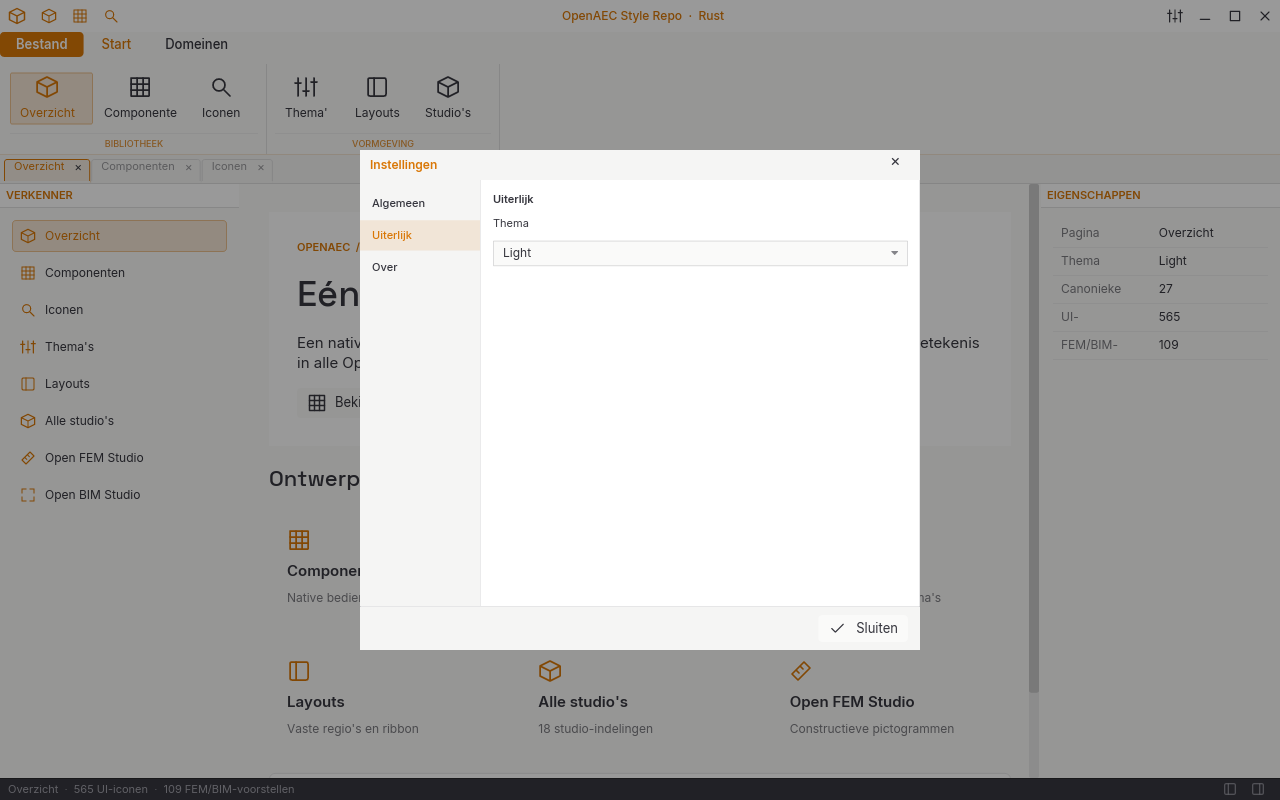
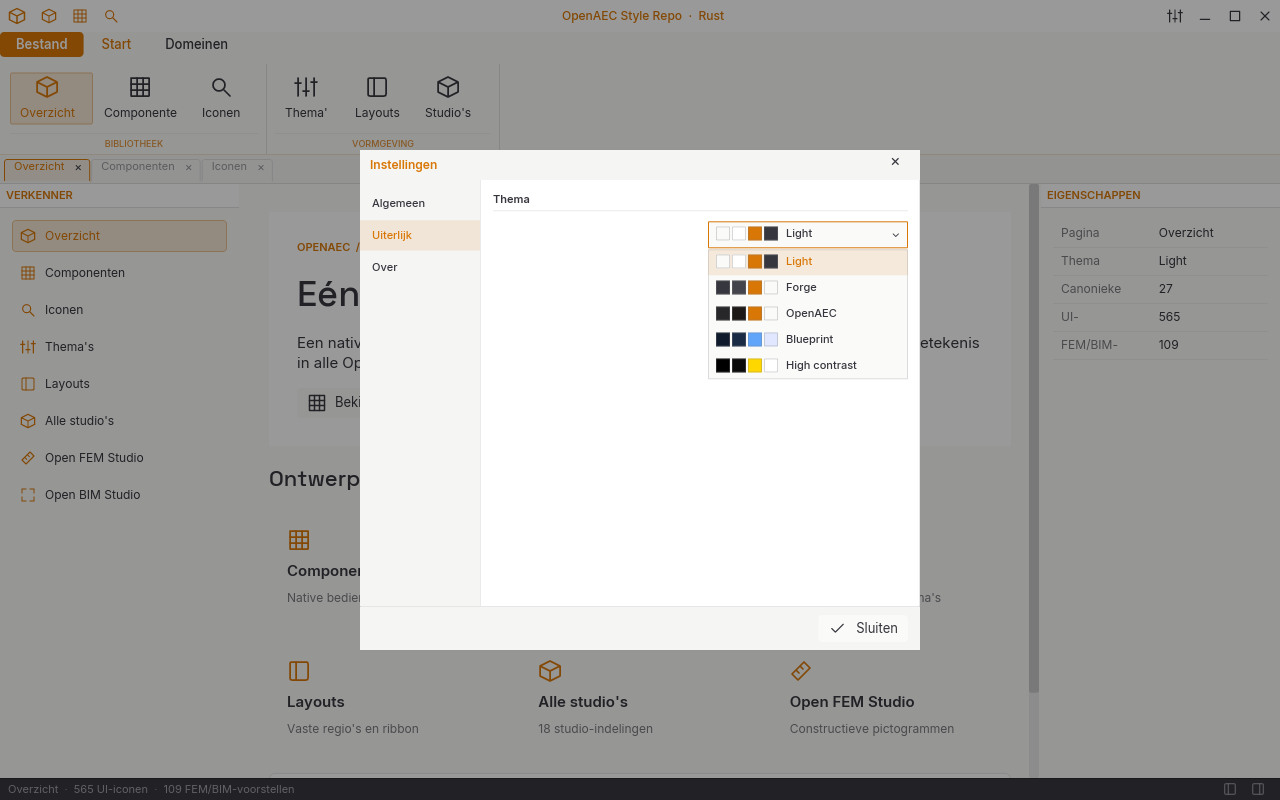
Share Tauri-sized theme picker across Rust apps

Changed region(s): [[0.5312, 0.2812, 0.7188, 0.4688], [0.375, 0.3125, 0.4062, 0.3438], [0.375, 0.25, 0.4062, 0.2812]]

diff --git a/design/settings-modal-review.html b/design/settings-modal-review.html
@@ -42,7 +42,7 @@
     <figure><h2>Style Repo · Forge</h2><a href="style-repo-settings-forge.png"><img loading="lazy" src="style-repo-settings-forge.png" alt="Style Repo instellingen in Forge"></a><figcaption>Dezelfde crate-geometrie en Forge-tokens.</figcaption></figure>
     <figure><h2>Pointcloud · Forge</h2><a href="pointcloud-settings-forge.png"><img loading="lazy" src="pointcloud-settings-forge.png" alt="Pointcloud instellingen in Forge"></a><figcaption>Dezelfde crate-geometrie en Forge-tokens.</figcaption></figure>
   </div>
-  <div class="assessment"><section><h3>Nu gelijk</h3><p>Positie en buitenmaat van de modal, 120 px navigatiestrook, rechte 11 px-tabs, header, footer, grenslijnen, backdropkleur en thematokens komen uit de crate. Beide apps hebben selecteerbare Algemeen-, Uiterlijk- en Over-pagina’s en behouden hun eigen instellingsgedrag.</p></section><section><h3>Nog beoordelen</h3><p>De gepinde templatecode bevat drie tabbladen; zijn bewaarde screenshot toont nog zeven oudere categorieën. De bron heeft een eigen open themadropdown. Style Repo heeft een compacte keuzelijst; Pointcloud toont vijf themarijen en CAD-viewerinstellingen. De binneninhoud is daardoor nog niet pixelidentiek.</p></section></div>
+  <div class="assessment"><section><h3>Nu gelijk</h3><p>Modal, zijbalk, rechte tabs, sectiekop en themakiezer komen uit dezelfde crate. De 200 px keuzeknop opent vijf rijen met de vier 14 px bronkleuren; in beide apps selecteert een rij het thema en sluit het menu. De renders tonen die geopende staat.</p></section><section><h3>Nog beoordelen</h3><p>De gepinde templatecode bevat drie tabs en vijf thema’s; de bewaarde screenshot toont nog zeven oudere categorieën en twee thema’s. Het Rust-menu staat nu in de inhoudsstroom, terwijl de Tauri-lijst over de inhoud zweeft. Style Repo past wijzigingen meteen toe; Pointcloud biedt preview, annuleren en opslaan. De overige instellingsvelden blijven productspecifiek.</p></section></div>
   <p style="margin-top:20px;color:#62626b;font-size:12px">Bronregels: <a href="https://github.com/OpenAEC-Foundation/OpenAEC-style-book/blob/dfdcd415b26604081b1699560621d3e9ae7ea6bf/project-templates/Tauri%2BReact/src/components/settings/SettingsDialog.tsx">SettingsDialog.tsx</a>, <a href="https://github.com/OpenAEC-Foundation/OpenAEC-style-book/blob/dfdcd415b26604081b1699560621d3e9ae7ea6bf/project-templates/Tauri%2BReact/src/components/settings/SettingsDialog.css">SettingsDialog.css</a> en <a href="https://github.com/OpenAEC-Foundation/OpenAEC-style-book/blob/dfdcd415b26604081b1699560621d3e9ae7ea6bf/project-templates/Tauri%2BReact/src/components/Modal.css">Modal.css</a>.</p>
 </main>
 </html>

diff --git a/crates/openaec-ui/src/widgets.rs b/crates/openaec-ui/src/widgets.rs
@@ -1088,6 +1088,118 @@ pub fn settings_tab<'a, M: Clone + 'a>(
         })
         .into()
 }
+/// One source-sized option in the settings theme menu. The caller owns the
+/// selection and supplies its localized label and action.
+pub fn settings_theme_option<'a, M: Clone + 'a>(
+    label: impl Into<String>,
+    option: Theme,
+    selected: bool,
+    on_press: M,
+    current_theme: Theme,
+) -> Element<'a, M> {
+    let t = current_theme.tokens();
+    let swatches = option.swatches().into_iter().fold(row![].spacing(2), |row, color| {
+        row.push(container(Space::new(14, 14)).style(move |_| container::Style {
+            background: Some(color.into()),
+            border: Border { color: iced::Color::from_rgba8(128, 128, 128, 0.3), width: 1.0, radius: 0.0.into() },
+            ..container::Style::default()
+        }))
+    });
+    button(row![swatches, text(label.into()).size(11).font(fonts::MEDIUM)]
+        .spacing(8).align_y(Alignment::Center))
+        .on_press(on_press)
+        .height(26)
+        .width(Fill)
+        .padding([5, 8])
+        .style(move |_, status| {
+            let hovered = matches!(status, button::Status::Hovered);
+            button::Style {
+                background: if selected { Some(t.dialog_tab_active_bg.into()) }
+                    else if hovered { Some(t.dialog_tab_hover.into()) } else { None },
+                text_color: if selected { t.dialog_tab_active_text } else { t.dialog_content_text },
+                ..button::Style::default()
+            }
+        })
+        .into()
+}
+/// Expanded 200 px theme menu shown in the pinned Style Book reference.
+pub fn settings_theme_menu<'a, M: Clone + 'a>(
+    options: impl IntoIterator<Item = (Theme, String, M)>,
+    selected: Theme,
+    current_theme: Theme,
+) -> Element<'a, M> {
+    let t = current_theme.tokens();
+    let items = options.into_iter().fold(column![], |items, (theme, label, message)| {
+        items.push(settings_theme_option(label, theme, theme == selected, message, current_theme))
+    });
+    container(items)
+        .width(200)
+        .style(move |_| container::Style {
+            background: Some(t.dialog_input_bg.into()),
+            border: Border { color: t.dialog_input_border, width: 1.0, radius: 0.0.into() },
+            ..container::Style::default()
+        })
+        .into()
+}
+/// Tauri-style theme selector: 200 px trigger and an expandable swatch menu.
+pub fn settings_theme_picker<'a, M: Clone + 'a>(
+    options: Vec<(Theme, String, M)>,
+    selected: Theme,
+    current_theme: Theme,
+    open: bool,
+    on_toggle: M,
+) -> Element<'a, M> {
+    let t = current_theme.tokens();
+    let label = options.iter().find(|(theme, _, _)| *theme == selected)
+        .map(|(_, label, _)| label.clone()).unwrap_or_else(|| selected.to_string());
+    let swatches = selected.swatches().into_iter().fold(row![].spacing(2), |row, color| {
+        row.push(container(Space::new(14, 14)).style(move |_| container::Style {
+            background: Some(color.into()),
+            border: Border { color: iced::Color::from_rgba8(128, 128, 128, 0.3), width: 1.0, radius: 0.0.into() },
+            ..container::Style::default()
+        }))
+    });
+    let trigger = button(row![
+        swatches,
+        text(label).size(11).font(fonts::MEDIUM),
+        Space::with_width(Fill),
+        text("⌄").size(11).color(t.dialog_content_text),
+    ].spacing(8).align_y(Alignment::Center))
+        .on_press(on_toggle)
+        .width(200)
+        .height(27)
+        .padding([5, 8])
+        .style(move |_, status| button::Style {
+            background: Some(t.dialog_input_bg.into()),
+            text_color: t.dialog_content_text,
+            border: Border {
+                color: if open { t.focus_color } else if matches!(status, button::Status::Hovered) { t.dialog_content_secondary } else { t.dialog_input_border },
+                width: 1.0,
+                radius: 0.0.into(),
+            },
+            ..button::Style::default()
+        });
+    let mut picker = column![trigger].spacing(1).width(200);
+    if open { picker = picker.push(settings_theme_menu(options, selected, current_theme)); }
+    picker.into()
+}
+/// Section title and underline from SettingsDialog.css.
+pub fn settings_section_heading<'a, M: 'a>(
+    label: impl Into<String>,
+    theme: Theme,
+) -> Element<'a, M> {
+    let t = theme.tokens();
+    column![
+        text(label.into()).font(fonts::STRONG).size(11).color(t.dialog_content_text),
+        container(Space::new(Fill, 1))
+            .height(1)
+            .width(Fill)
+            .style(move |_| container::Style::default().background(t.dialog_section_border)),
+    ]
+    .spacing(4)
+    .width(Fill)
+    .into()
+}
 pub fn icon_button<'a, M: Clone + 'a>(
     label: &'a str,
     icon: Icon,

diff --git a/crates/openaec-ui/src/model.rs b/crates/openaec-ui/src/model.rs
@@ -134,7 +134,7 @@ pub enum DocumentEvent { Activate(String), CloseRequested(String) }
 pub enum Message<M> { Ui(UiEvent), Command(M), Document(DocumentEvent) }
 #[derive(Debug, Clone)]
 pub enum UiEvent {
-    Tab(String), Backstage(bool), Settings(bool), SettingsPage(SettingsPage), Theme(Theme), Language(Language),
+    Tab(String), Backstage(bool), Settings(bool), SettingsPage(SettingsPage), SettingsThemeMenu(bool), Theme(Theme), Language(Language),
     Scale(f64), ToggleLeft, ToggleRight, Resize(pane_grid::ResizeEvent),
     DragWindow, Minimize, Maximize, CloseWindow,
 }
@@ -196,6 +196,7 @@ pub struct ShellState {
     pub backstage: bool,
     pub settings: bool,
     pub settings_page: SettingsPage,
+    pub settings_theme_open: bool,
     pub(crate) panes: pane_grid::State<Region>,
     left_split: Option<pane_grid::Split>,
     right_split: Option<pane_grid::Split>,
@@ -205,7 +206,7 @@ impl ShellState {
     pub fn new(mut preferences: Preferences) -> Self {
         preferences.normalize();
         let (panes, _) = pane_grid::State::new(Region::Workspace);
-        let mut state = Self { preferences, active_tab: String::new(), backstage:false, settings:false, settings_page:SettingsPage::General, panes, left_split:None, right_split:None };
+        let mut state = Self { preferences, active_tab: String::new(), backstage:false, settings:false, settings_page:SettingsPage::General, settings_theme_open:false, panes, left_split:None, right_split:None };
         state.rebuild(); state
     }
     fn rebuild(&mut self) {
@@ -225,10 +226,11 @@ impl ShellState {
     pub fn update(&mut self, event: &UiEvent) {
         match event {
             UiEvent::Tab(id) => { self.active_tab = id.clone(); self.backstage = false; }
-            UiEvent::Backstage(open) => { self.backstage = *open; self.settings = false; }
-            UiEvent::Settings(open) => { self.settings = *open; self.backstage = false; }
-            UiEvent::SettingsPage(page) => self.settings_page = *page,
-            UiEvent::Theme(theme) => self.preferences.theme = *theme,
+            UiEvent::Backstage(open) => { self.backstage = *open; self.settings = false; self.settings_theme_open = false; }
+            UiEvent::Settings(open) => { self.settings = *open; self.backstage = false; self.settings_theme_open = false; }
+            UiEvent::SettingsPage(page) => { self.settings_page = *page; self.settings_theme_open = false; }
+            UiEvent::SettingsThemeMenu(open) => self.settings_theme_open = *open,
+            UiEvent::Theme(theme) => { self.preferences.theme = *theme; self.settings_theme_open = false; }
             UiEvent::Language(language) => self.preferences.language = *language,
             UiEvent::Scale(scale) => { self.preferences.scale = *scale; self.preferences.normalize(); }
             UiEvent::ToggleLeft => { self.preferences.explorer_visible = !self.preferences.explorer_visible; self.rebuild(); }
@@ -241,5 +243,25 @@ impl ShellState {
             }
             _ => {}
         }
+    }
+}
+
+#[cfg(test)]
+mod settings_tests {
+    use super::*;
+
+    #[test]
+    fn theme_choice_closes_its_menu_and_other_pages_do_not_leave_it_open() {
+        let mut shell = ShellState::default();
+        shell.update(&UiEvent::Settings(true));
+        shell.update(&UiEvent::SettingsPage(SettingsPage::Appearance));
+        shell.update(&UiEvent::SettingsThemeMenu(true));
+        assert!(shell.settings_theme_open);
+        shell.update(&UiEvent::Theme(Theme::Forge));
+        assert_eq!(shell.preferences.theme, Theme::Forge);
+        assert!(!shell.settings_theme_open);
+        shell.update(&UiEvent::SettingsThemeMenu(true));
+        shell.update(&UiEvent::SettingsPage(SettingsPage::About));
+        assert!(!shell.settings_theme_open);
     }
 }

diff --git a/crates/openaec-ui/src/shell.rs b/crates/openaec-ui/src/shell.rs
@@ -160,7 +160,7 @@ pub fn shell<'a, M: Clone + 'a>(state: &'a ShellState, slots: Slots<'a,M>) -> El
 }
 fn settings<'a,M:Clone+'a>(state:&'a ShellState) -> Element<'a,Message<M>> {
     let p=&state.preferences; let l=p.language;
-    let heading = |label| text(label).font(fonts::STRONG).size(11);
+    let heading = |label: &'static str| widgets::settings_section_heading(label,p.theme);
     let form: Element<'a, Message<M>> = match state.settings_page {
         SettingsPage::General => column![
             heading(l.text("Algemeen","General")),
@@ -173,11 +173,17 @@ fn settings<'a,M:Clone+'a>(state:&'a ShellState) -> Element<'a,Message<M>> {
                 .step(0.05).style(move |_,status|widgets::slider_style(p.theme,status)),
         ].spacing(10).into(),
         SettingsPage::Appearance => column![
-            heading(l.text("Uiterlijk","Appearance")),
-            text(l.text("Thema","Theme")).size(11),
-            pick_list(Theme::ALL,Some(p.theme),|theme|Message::Ui(UiEvent::Theme(theme)))
-                .style(move |_,status|widgets::pick_list_style(p.theme,status))
-                .menu_style(move |_|widgets::pick_list_menu_style(p.theme)).width(Fill),
+            heading(l.text("Thema","Theme")),
+            row![
+                Space::with_width(Fill),
+                widgets::settings_theme_picker(
+                    Theme::ALL.into_iter().map(|theme| (
+                        theme, theme.to_string(), Message::Ui(UiEvent::Theme(theme)),
+                    )).collect(),
+                    p.theme, p.theme, state.settings_theme_open,
+                    Message::Ui(UiEvent::SettingsThemeMenu(!state.settings_theme_open)),
+                ),
+            ],
         ].spacing(10).into(),
         SettingsPage::About => column![
             heading(l.text("Over","About")),

diff --git a/scripts/check_crate_package.py b/scripts/check_crate_package.py
@@ -3,6 +3,7 @@
 
 import shutil
 import subprocess
+import re
 from pathlib import Path
 
 root = Path(__file__).resolve().parents[1]
@@ -16,8 +17,10 @@ assert all(not name.startswith(("design/", "harmonization/", "src/bin/")) for na
 icons = {f"assets/icons/{p.name}" for p in (root / "crates/openaec-ui/assets/icons").glob("*.svg")}
 domain_icons = {f"assets/{group}/{p.name}" for group in ("domain-icons", "domain-icons-small") for p in (root / "crates/openaec-ui/assets" / group).glob("*.svg")}
 fonts = {f"assets/fonts/{p.name}" for p in (root / "crates/openaec-ui/assets/fonts").glob("*.ttf")}
-assert len(icons) == 26 and len(domain_icons) == 8 and len(fonts) == 6
+icon_source = (root / "crates/openaec-ui/src/icons.rs").read_text()
+core_count, domain_count = map(int, re.findall(r"pub const ALL: \[Self; (\d+)\]", icon_source))
+assert len(icons) == core_count and len(domain_icons) == 2 * domain_count and len(fonts) == 6
 assert icons <= files and domain_icons <= files and fonts <= files
 assert {f"licenses/{name}-OFL.txt" for name in ("Inter", "SpaceGrotesk", "JetBrainsMono")} <= files
 assert {"NOTICE.md", "LICENSE", "README.md", "src/lib.rs"} <= files
-print(f"Reusable crate package: {len(files)} files, 26 core icons, 8 domain SVGs, 6 fonts, 3 font notices, no research assets")
+print(f"Reusable crate package: {len(files)} files, {core_count} core icons, {len(domain_icons)} domain SVGs, 6 fonts, 3 font notices, no research assets")

diff --git a/crates/openaec-ui/src/theme.rs b/crates/openaec-ui/src/theme.rs
@@ -13,6 +13,17 @@ pub enum Theme {
 }
 impl Theme {
     pub const ALL: [Self; 5] = [Self::Light, Self::Forge, Self::OpenAec, Self::Blueprint, Self::Contrast];
+    /// Four swatches from the pinned Tauri SettingsDialog THEME_OPTIONS.
+    pub fn swatches(self) -> [iced::Color; 4] {
+        let hex = |value: u32| iced::Color::from_rgb8((value >> 16) as u8, (value >> 8) as u8, value as u8);
+        match self {
+            Self::Light => [hex(0xFAFAF9), hex(0xFFFFFF), hex(0xD97706), hex(0x36363E)],
+            Self::Forge => [hex(0x36363E), hex(0x44444C), hex(0xD97706), hex(0xFAFAF9)],
+            Self::OpenAec => [hex(0x27272A), hex(0x1C1917), hex(0xD97706), hex(0xFAFAF9)],
+            Self::Blueprint => [hex(0x0F1B2D), hex(0x1A2C45), hex(0x60A5FA), hex(0xE0E7FF)],
+            Self::Contrast => [hex(0x000000), hex(0x0A0A0A), hex(0xFFD700), hex(0xFFFFFF)],
+        }
+    }
     pub fn tokens(self) -> Tokens {
         match self { Self::Light => tokens::LIGHT, Self::Forge => tokens::FORGE, Self::OpenAec => tokens::OPENAEC, Self::Blueprint => tokens::BLUEPRINT, Self::Contrast => tokens::CONTRAST }
     }

diff --git a/src/bin/style_repo/render_tests.rs b/src/bin/style_repo/render_tests.rs
@@ -48,7 +48,10 @@ fn render_sized(
     preferences.theme = theme;
     let mut state = ShellState::new(preferences);
     state.settings = show_settings;
-    if show_settings { state.settings_page = openaec_ui::SettingsPage::Appearance; }
+    if show_settings {
+        state.settings_page = openaec_ui::SettingsPage::Appearance;
+        state.settings_theme_open = true;
+    }
     if let Some(tab) = active_tab {
         state.active_tab = tab.into();
     }

diff --git a/README.md b/README.md
@@ -10,7 +10,7 @@ cargo run --bin style_repo
 
 De map is een zelfstandige Git-repository op branch `main`, met lokale commits en een schone werkboom. In GitHub Desktop kan hij via **File → Add Local Repository** worden toegevoegd met pad `/home/aia04/Documenten/GitHub/OpenAEC-app-kopie`; daarna maakt **Publish repository** de eerste GitHub-remote aan. Er is nog geen remote ingesteld, dus een gewone Push-knop verschijnt pas na publiceren of koppelen aan een bestaande lege repository.
 
-De app laat componenten, vijf thema's, de gedeelde layout, 18 studio-indelingen met elk negen selecteerbare voorbeeldschermen, 565 onderzochte UI-iconbestanden en 109 getekende FEM/BIM-iconconcepten zien. De broniconen en domeinconcepten zijn bedoeld voor beoordeling; de 26 iconen in [`crates/openaec-ui/assets/icons/`](crates/openaec-ui/assets/icons/) vormen de huidige semantische kern van de crate. De gelijkgehouden kopie in `assets/icons/` bedient de HTML-review. Thema, taal, schaal en paneelinstellingen worden opgeslagen in de gebruikersconfiguratie.
+De app laat componenten, vijf thema's, de gedeelde layout, 18 studio-indelingen met elk negen selecteerbare voorbeeldschermen, 565 onderzochte UI-iconbestanden en 109 getekende FEM/BIM-iconconcepten zien. De broniconen en domeinconcepten zijn bedoeld voor beoordeling; de 27 iconen in [`crates/openaec-ui/assets/icons/`](crates/openaec-ui/assets/icons/) vormen de huidige semantische kern van de crate. De gelijkgehouden kopie in `assets/icons/` bedient de HTML-review. Thema, taal, schaal en paneelinstellingen worden opgeslagen in de gebruikersconfiguratie.
 
 ![Native Rust Style Repo](design/style-repo-native.png)
 
@@ -37,7 +37,7 @@ De [Pile Plan-ribbon in Forge](design/style-repo-pile-ribbon-forge.png) volgt Pl
 
 De Frame-ribbon toont [Sjabloon](design/style-repo-frame-ribbon-light.png), [IFC LOD](design/style-repo-frame-ifc-light.png) en [Thema](design/style-repo-frame-view-light.png) nu als gedeelde native keuzelijsten met de brongepinde opties en beginwaarden.
 
-De native iconenpagina toont de 26 canonieke Rust-iconen en vier afzonderlijke, beoordeelde CAD/Pointcloud-domeinbetekenissen met eigen 16 px-vormen, los van de 565 onderzoeksbronnen: [Light](design/style-repo-icons-light.png) en [Forge](design/style-repo-icons-forge.png).
+De native iconenpagina toont de 27 canonieke Rust-iconen en vier afzonderlijke, beoordeelde CAD/Pointcloud-domeinbetekenissen met eigen 16 px-vormen, los van de 565 onderzoeksbronnen: [Light](design/style-repo-icons-light.png) en [Forge](design/style-repo-icons-forge.png).
 De [componentenpagina in Light](design/style-repo-components-light.png) en [Forge](design/style-repo-components-forge.png) toont de gedeelde primaire, secundaire en uitgeschakelde knoppen, plus een werkende checkbox en slider. Pointcloud tekent ook zijn scrollbalken, tooltips en voortgangsbalken met de stijlfuncties uit dezelfde crate.
 De [instellingenreview](design/settings-modal-review.html) vergelijkt de gepinde Tauri-bron met Style Repo en Pointcloud in Light en Forge. De modal en de drie selecteerbare tabbladen komen uit dezelfde Rust-crate; de inhoud, themawaarde en opslag blijven van de betreffende app.
 
@@ -57,7 +57,7 @@ Alle 666 gevonden screenshotkandidaten zijn rechtstreeks uit hun vastgelegde Git
 De vijf vaste vensterbanden, 24 px-paneelwerkbalken en de standaardbreedte van beide zijpanelen zijn vastgelegd in [`design/layout-spec.json`](design/layout-spec.json) met een exacte Tauri-broncommit. `python3 scripts/check_layout_metrics.py` vergelijkt de Rust-crate en het HTML-prototype met die maten, en met de lokale Tauri-bron wanneer die naast deze repo staat.
 `python3 scripts/check_icon_adoptions.py` controleert de zes iconbesluiten en identieke SVG-inhoud in de lokale Pointcloud-integratie.
 `python3 scripts/check_portable_ui.py` vergelijkt de volledige portable crate met deze bron: Rust-code na formattering, alle 28 gebundelde fonts/iconen en de runtime-dependencies.
-`python3 scripts/check_crate_package.py` controleert de pakketgrens en `cargo package -p openaec-ui` bouwt de zelfstandige crate uit het verpakte archief. Het pakket bevat de 26 canonieke bedieningsiconen en vier beoordeelde domeinbetekenissen met aparte 16 px-vectoren, naast de Rust-bronnen, zes fonts en drie OFL-licentieteksten. De Style Repo-app staat als afzonderlijk, niet-publiceerbaar Cargo-package in dezelfde workspace. De 565 onderzoeksiconen, FEM/BIM-concepten en reviewbeelden gaan niet mee in het `openaec-ui`-pakket. Voor gebruik in een andere Git-checkout kan de crate via een Git-dependency of een lokale path-dependency worden toegevoegd; er is nog geen remote voor deze repository ingesteld.
+`python3 scripts/check_crate_package.py` controleert de pakketgrens en `cargo package -p openaec-ui` bouwt de zelfstandige crate uit het verpakte archief. Het pakket bevat de 27 canonieke bedieningsiconen en vier beoordeelde domeinbetekenissen met aparte 16 px-vectoren, naast de Rust-bronnen, zes fonts en drie OFL-licentieteksten. De Style Repo-app staat als afzonderlijk, niet-publiceerbaar Cargo-package in dezelfde workspace. De 565 onderzoeksiconen, FEM/BIM-concepten en reviewbeelden gaan niet mee in het `openaec-ui`-pakket. Voor gebruik in een andere Git-checkout kan de crate via een Git-dependency of een lokale path-dependency worden toegevoegd; er is nog geen remote voor deze repository ingesteld.
 
 De eerste productintegratie staat in de lokale `open-pointcloud-studio`-checkout op branch `feat/shared-rust-ui`. Daar draait een portable snapshot van deze crate als `native/ui`; de Pointcloud-titelbalk, [tien algemene toolacties, twee domeinacties en de Extensions-bestandspagina](design/icon-adoptions.json) gebruiken de gedeelde iconen, naast de gebundelde lettertypen, knoppen, invoervelden, keuzelijsten, checkboxen, sliders, voortgangsbalken, scrollbalken, tooltips en 77 gedeelde Tauri-kleurvelden per thema. De stevige randkleur voor sliders en voortgangsbalken komt aanvullend uit de vastgelegde Style Book-merktokens. De [Extensions-iconreview](design/extensions-icon-review.html) onderbouwt waarom die pagina een puzzelstuk krijgt in plaats van een 3D-kubus. De vier beoordeelde navigatie-iconen staan in de [Light/Forge-review](design/navigation-icon-review.html); de nieuwe 3D BAG- en EDL-vormen staan op 16, 24 en 32 px in de [botsingsreview](design/icon-collision-review.html). De overige domeinribbon en panelen worden na de visuele en semantische beoordeling verder overgezet.
 

diff --git a/design/assessment.md b/design/assessment.md
@@ -147,7 +147,7 @@ compacte knopstapels en een eigen taak/Gantt-werkgebied gebruikt.
 | Semantiek van iconen | De 27 huidige canonieke bedieningstekens zijn een begin; 565 bronbestanden zijn onderzoeksdata. | Groepeer synoniemen, beoordeel tegen light/dark en teken de definitieve domeinsets. |
 | FEM en BIM | 52 FEM- en 57 BIM-betekenissen hebben elk een uniek SVG-concept; de atlas toont ze op 16, 24 en 32 px in lichte en donkere omgeving. | Complexe vormen op 16 px verfijnen en de 24 mogelijke bronmatches inhoudelijk vergelijken. |
 | Applicatieschermen | Voor 16 studio's zijn negen gedeelde schermtoestanden in HTML en de native Rust-atlas selecteerbaar, waaronder import/export, voortgang, onopgeslagen werk en fouten. Speech toont negen native zijbalkschermen en acht broncaptures; Field tien native topnavigatieschermen en zes broncaptures. De native ribbon volgt nu per studio de voorgestelde tabs. FEM en BIM tonen hun eigen concepticonen als themagekleurde app-eigen SVG's; de algemene `Icon::ALL`-set blijft 27 betekenissen groot en `DomainIcon` bevat vier afzonderlijke CAD/Pointcloud-betekenissen. | Per tool de echte inhoud, dialooginteractie en concrete foutafhandeling aan de broncode koppelen; concepttabs en -iconen vakinhoudelijk beoordelen. |
-| Werkelijke migratie | Pointcloud gebruikt de gedeelde crate voor de complete buitenste venstercompositie, beide paneelkoppen, titelbalkiconen, tien beoordeelde algemene tooliconen, twee domeiniconen en het Extensions-icoon, fonts, 77 Tauri-kleurvelden plus de stevige randkleur uit de merktokens per thema, ribbon- en formulierknoppen, invoervelden, keuzelijsten, checkboxen, sliders, voortgangsbalken, scrollbalken, tooltips en vijf vensterbandmaten. Ook de 27 px hoge dialoogknop met 75 px minimumbreedte en identieke tekstuitlijning wordt nu door de crate gebouwd en in beide apps gebruikt. De portable kopie is op 13 Rust-bestanden, 41 assets en dependencies gelijk gecontroleerd. De documenttabs staan vensterbreed; Light- en Forge-renders zijn met lege en geopende scan beoordeeld. De titelbalkacties van beide apps gebruiken nu ook dezelfde 30 × 26 px Rust-widget voor geometrie, hover en tooltip. De [instellingenmodal-review](settings-modal-review.html) vergelijkt nu de gepinde Tauri-capture met native Light- en Forge-renders van beide apps. Een gedeelde crate-component legt buitenmaat 560 × 500 px, zijbalk 120 px, header/footer en een niet-sluitende backdrop vast; inhoud en opdrachten blijven app-eigen. Daarna zijn de drie tabrijen uit de gepinde broncode in beide Rust-apps aangesloten op `widgets::settings_tab`: 11 px tekst, rechte hoeken en gedeelde hover- en selectietokens. Style Repo heeft nu selecteerbare Algemeen-, Uiterlijk- en Over-pagina’s. Beide Light- en Forge-renders zijn opnieuw gegenereerd. De gepinde templatecode bevat drie tabs, terwijl de bewaarde screenshot zeven historische categorieën toont; die capture bewijst dus niet de huidige tablijst. | Domeinpanelen en dialogen op gedeelde widgets aansluiten zonder 3D-functionaliteit te verliezen; echte vensterscreenshots op meerdere platformen vergelijken. |
+| Werkelijke migratie | Pointcloud gebruikt de gedeelde crate voor de complete buitenste venstercompositie, beide paneelkoppen, titelbalkiconen, tien beoordeelde algemene tooliconen, twee domeiniconen en het Extensions-icoon, fonts, 77 Tauri-kleurvelden plus de stevige randkleur uit de merktokens per thema, ribbon- en formulierknoppen, invoervelden, keuzelijsten, checkboxen, sliders, voortgangsbalken, scrollbalken, tooltips en vijf vensterbandmaten. Ook de 27 px hoge dialoogknop met 75 px minimumbreedte en identieke tekstuitlijning wordt nu door de crate gebouwd en in beide apps gebruikt. De portable kopie is op 13 Rust-bestanden, 41 assets en dependencies gelijk gecontroleerd. De documenttabs staan vensterbreed; Light- en Forge-renders zijn met lege en geopende scan beoordeeld. De titelbalkacties van beide apps gebruiken nu ook dezelfde 30 × 26 px Rust-widget voor geometrie, hover en tooltip. De [instellingenmodal-review](settings-modal-review.html) vergelijkt nu de gepinde Tauri-capture met native Light- en Forge-renders van beide apps. Een gedeelde crate-component legt buitenmaat 560 × 500 px, zijbalk 120 px, header/footer en een niet-sluitende backdrop vast; inhoud en opdrachten blijven app-eigen. Daarna zijn de drie tabrijen uit de gepinde broncode in beide Rust-apps aangesloten op `widgets::settings_tab`: 11 px tekst, rechte hoeken en gedeelde hover- en selectietokens. Style Repo heeft nu selecteerbare Algemeen-, Uiterlijk- en Over-pagina’s. Dezelfde crate levert nu ook de 11 px-sectiekop met scheidslijn en een 200 px-themakiezer met vijf opties, ieder met vier brongekleurde vlakjes van 14 px. De twee apps openen en sluiten deze lijst met hun eigen berichten; de reviewrenders tonen hem geopend. Beide Light- en Forge-renders zijn opnieuw gegenereerd. De gepinde templatecode bevat drie tabs en vijf thema’s, terwijl de bewaarde screenshot zeven historische categorieën en twee thema’s toont. De Tauri-lijst zweeft over de inhoud; de huidige native lijst vergroot de inhoudshoogte. Style Repo past de keuze meteen toe, Pointcloud bewaart haar pas na Opslaan. | Domeinpanelen en dialogen op gedeelde widgets aansluiten zonder 3D-functionaliteit te verliezen; echte vensterscreenshots op meerdere platformen vergelijken. |
 
 De actieve en hoverstaat van de 28 px ribbon-tab komen nu uit één
 `openaec-ui::widgets::ribbon_tab_style` in zowel de Rust-showcase als

diff --git a/crates/openaec-ui/README.md b/crates/openaec-ui/README.md
@@ -8,6 +8,7 @@ Native Rust shell, theme tokens, typography, semantic icons and controls shared 
 
 `widgets::settings_modal` owns the source Style Book's 560 × 500 px settings chrome, 120 px sidebar, overlay, header and footer. Each app supplies its own tabs and settings fields. The backdrop does not dismiss the dialog, matching the pinned Tauri template.
 `widgets::settings_tab` gives those tabs the same square 11 px navigation style. The crate shell provides selectable General, Appearance and About pages; other applications can supply their own page content and messages.
+`widgets::settings_theme_picker` provides the 200 px trigger and expandable menu with five choices and four 14 px swatches per row. `Theme::swatches` is the single source of those colors for Style Repo and Pointcloud. Both apps own open/close and preview behavior; the native review renders deliberately show the menu expanded.
 
 `frame::document_bar` owns the 30 px document band from the pinned Tauri Style Book: the one-pixel top and bottom rules, theme background and 4 px horizontal inset. Applications keep their own tab identity and navigation behavior.
 
